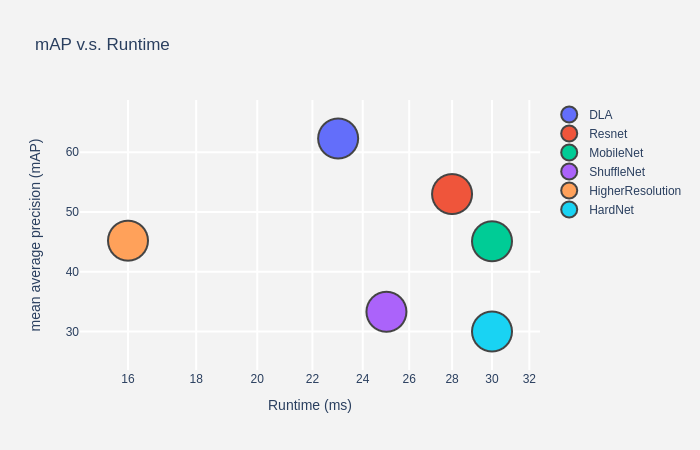
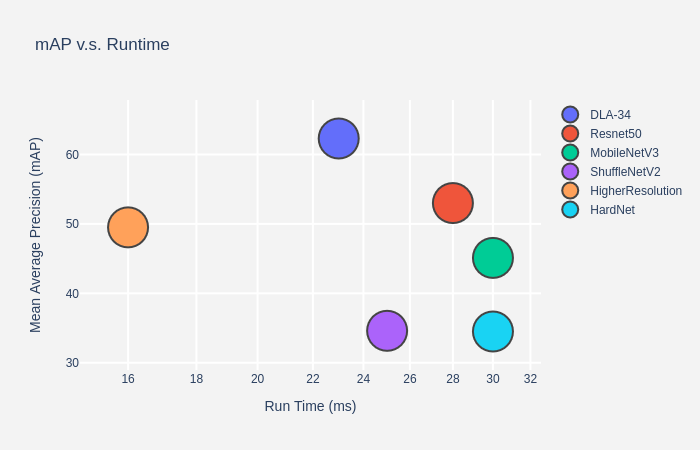
update

diff --git a/readme/plot_speed_accuracy.py b/readme/plot_speed_accuracy.py
@@ -3,40 +3,18 @@ import plotly.express as px
 import pandas as pd
 import math
 
-# Load data, define hover text and bubble size
-data = px.data.gapminder()
-df_2007 = data[data['year']==2007]
-df_2007 = df_2007.sort_values(['continent', 'country'])
-
-hover_text = []
-bubble_size = []
-
-for index, row in df_2007.iterrows():
-    hover_text.append(('Country: {country}<br>'+
-                      'Life Expectancy: {lifeExp}<br>'+
-                      'GDP per capita: {gdp}<br>'+
-                      'Population: {pop}<br>'+
-                      'Year: {year}').format(country=row['country'],
-                                            lifeExp=row['lifeExp'],
-                                            gdp=row['gdpPercap'],
-                                            pop=row['pop'],
-                                            year=row['year']))
-    bubble_size.append(math.sqrt(row['pop']))
-
-df_2007['text'] = hover_text
-df_2007['size'] = bubble_size
 sizeref = 2000
 
 # Dictionary with dataframes for each continent
 continent_names = ['DLA', 'Resnet', 'MobileNet', 'ShuffleNet', 'HigherResolution', 'HardNet']
 continent_data = {}
 
-continent_data['DLA'] = {'map':[62.3], 'speed':[23]}
-continent_data['Resnet'] = {'map':[53.0], 'speed':[28]}
-continent_data['MobileNet'] = {'map':[45.1], 'speed':[30]}
-continent_data['ShuffleNet'] = {'map':[33.3], 'speed':[25]}
-continent_data['HigherResolution'] = {'map':[45.2], 'speed':[16]}
-continent_data['HardNet'] = {'map':[30.], 'speed':[30]}
+continent_data['DLA-34'] = {'map':[62.3], 'speed':[23]}
+continent_data['Resnet50'] = {'map':[53.0], 'speed':[28]}
+continent_data['MobileNetV3'] = {'map':[45.1], 'speed':[30]}
+continent_data['ShuffleNetV2'] = {'map':[34.6], 'speed':[25]}
+continent_data['HigherResolution'] = {'map':[49.5], 'speed':[16]}
+continent_data['HardNet'] = {'map':[34.5], 'speed':[30]}
 
 
 # Create figure
@@ -56,13 +34,13 @@ fig.update_traces(mode='markers', marker=dict(sizemode='area',
 fig.update_layout(
     title='mAP v.s. Runtime',
     xaxis=dict(
-        title='Runtime (ms)',
+        title='Run Time (ms)',
         gridcolor='white',
         type='log',
         gridwidth=2,
     ),
     yaxis=dict(
-        title='mean average precision (mAP)',
+        title='Mean Average Precision (mAP)',
         gridcolor='white',
         gridwidth=2,
     ),

diff --git a/README.md b/README.md
@@ -5,16 +5,17 @@ multi person pose estimation using center point detection:
 ## Main results
 
 ### Keypoint detection on COCO validation 2017
-<p align="center"> <img src='readme/performance.png' align="center" height="230px"></p>
-
+<p align="center"> <img src='readme/performance.png' align="center" height="512px"></p>
+<center>
 | Backbone     |  AP       |  FPS         | Download | 
 |--------------|-----------|--------------|----------|
 |DLA-34        | 62.3      |    23      |   [model](https://drive.google.com/open?id=151aD93nHG_oGju1xxOmwoDNjfeif6uGi)  |
 |Resnet-50     | 53.0      |    28      |   [model](https://drive.google.com/open?id=1k_kpn7tCpX4CHEEiCqdNxLRXZc-ky-uY)  |
 |MobilenetV3   | 45.1      |    30      |   [model](https://drive.google.com/open?id=1T8_YsPiW7EmLHQfh_Zk37hTsiJpdaAN1)  |
-|ShuffleNetV2  | 33.3      |    25      |   [model]()  |
-|High Resolution| 45.2     |    16      |   [model]()  |
-|HardNet| 12.6     |    30        |   [model]()  |
+|ShuffleNetV2  | 34.6      |    25      |   [model]()  |
+|High Resolution| 49.5     |    16      |   [model]()  |
+|HardNet| 34.6     |    30        |   [model]()  |
+</center>
 ## Installation
 
 git submodule init&git submodule update
